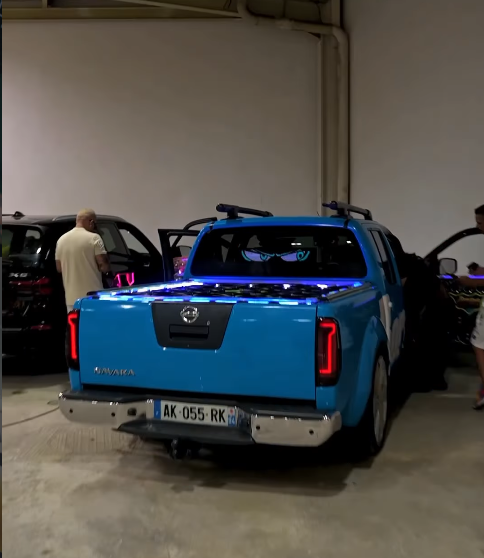
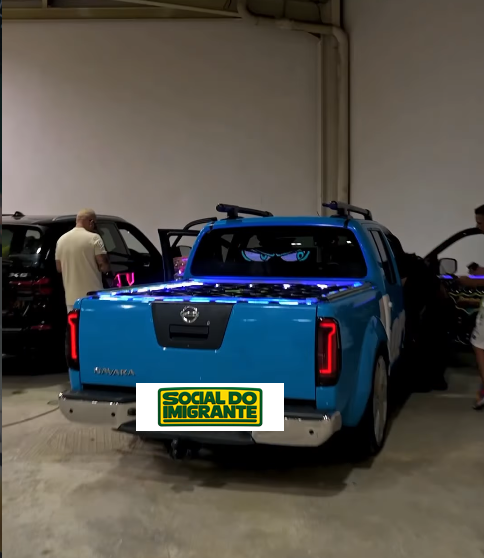
Atualiza expositores, tapa placa do carro e adiciona Suzana Medeiros
- Remove Andre Fernandes (alvesfernandesavocats) dos expositores
- Adiciona 5 novos expositores: pompes_funebres_universel_, br.eventss,
  alust_fr, natytattooparis, yasmindecorationparis
- Tampa a placa do carro na foto de Som Automotivo com a logo do evento
- Adiciona Suzana Medeiros à Programação

Changed region(s): [[0.2789, 0.6703, 0.5888, 0.7921]]

diff --git a/index.html b/index.html
@@ -187,10 +187,6 @@
             <span class="exhibitor__avatar"><img src="assets/expositores/maisonrebuli.jpg" alt="Logo de @maisonrebuli" width="96" height="96" loading="lazy"></span>
             <span class="exhibitor__handle">@maisonrebuli</span>
           </a>
-          <a class="exhibitor" href="https://www.instagram.com/alvesfernandesavocats/" target="_blank" rel="noopener noreferrer">
-            <span class="exhibitor__avatar"><img src="assets/expositores/alvesfernandesavocats.jpg" alt="Logo de @alvesfernandesavocats" width="96" height="96" loading="lazy"></span>
-            <span class="exhibitor__handle">@alvesfernandesavocats</span>
-          </a>
           <a class="exhibitor" href="https://www.instagram.com/gabimorandoemparis/" target="_blank" rel="noopener noreferrer">
             <span class="exhibitor__avatar"><img src="assets/expositores/gabimorandoemparis.jpg" alt="Logo de @gabimorandoemparis" width="96" height="96" loading="lazy"></span>
             <span class="exhibitor__handle">@gabimorandoemparis</span>
@@ -247,6 +243,26 @@
             <span class="exhibitor__avatar"><img src="assets/expositores/tom.e.brasa.jpg" alt="Logo de @tom.e.brasa" width="96" height="96" loading="lazy"></span>
             <span class="exhibitor__handle">@tom.e.brasa</span>
           </a>
+          <a class="exhibitor" href="https://www.instagram.com/pompes_funebres_universel_/" target="_blank" rel="noopener noreferrer">
+            <span class="exhibitor__avatar"><img src="assets/expositores/pompes_funebres_universel_.jpg" alt="Logo de @pompes_funebres_universel_" width="96" height="96" loading="lazy"></span>
+            <span class="exhibitor__handle">@pompes_funebres_universel_</span>
+          </a>
+          <a class="exhibitor" href="https://www.instagram.com/br.eventss/" target="_blank" rel="noopener noreferrer">
+            <span class="exhibitor__avatar"><img src="assets/expositores/br.eventss.jpg" alt="Logo de @br.eventss" width="96" height="96" loading="lazy"></span>
+            <span class="exhibitor__handle">@br.eventss</span>
+          </a>
+          <a class="exhibitor" href="https://www.instagram.com/alust_fr/" target="_blank" rel="noopener noreferrer">
+            <span class="exhibitor__avatar"><img src="assets/expositores/alust_fr.jpg" alt="Logo de @alust_fr" width="96" height="96" loading="lazy"></span>
+            <span class="exhibitor__handle">@alust_fr</span>
+          </a>
+          <a class="exhibitor" href="https://www.instagram.com/natytattooparis/" target="_blank" rel="noopener noreferrer">
+            <span class="exhibitor__avatar"><img src="assets/expositores/natytattooparis.jpg" alt="Logo de @natytattooparis" width="96" height="96" loading="lazy"></span>
+            <span class="exhibitor__handle">@natytattooparis</span>
+          </a>
+          <a class="exhibitor" href="https://www.instagram.com/yasmindecorationparis/" target="_blank" rel="noopener noreferrer">
+            <span class="exhibitor__avatar"><img src="assets/expositores/yasmindecorationparis.jpeg" alt="Logo de @yasmindecorationparis" width="96" height="96" loading="lazy"></span>
+            <span class="exhibitor__handle">@yasmindecorationparis</span>
+          </a>
         </div>
         <div class="exhibitor-marquee__set" aria-hidden="true">
           <a class="exhibitor" href="https://www.instagram.com/vikyoko_sushi/" target="_blank" rel="noopener noreferrer" tabindex="-1">
@@ -268,10 +284,6 @@
           <a class="exhibitor" href="https://www.instagram.com/maisonrebuli/" target="_blank" rel="noopener noreferrer" tabindex="-1">
             <span class="exhibitor__avatar"><img src="assets/expositores/maisonrebuli.jpg" alt="" width="96" height="96" loading="lazy"></span>
             <span class="exhibitor__handle">@maisonrebuli</span>
-          </a>
-          <a class="exhibitor" href="https://www.instagram.com/alvesfernandesavocats/" target="_blank" rel="noopener noreferrer" tabindex="-1">
-            <span class="exhibitor__avatar"><img src="assets/expositores/alvesfernandesavocats.jpg" alt="" width="96" height="96" loading="lazy"></span>
-            <span class="exhibitor__handle">@alvesfernandesavocats</span>
           </a>
           <a class="exhibitor" href="https://www.instagram.com/gabimorandoemparis/" target="_blank" rel="noopener noreferrer" tabindex="-1">
             <span class="exhibitor__avatar"><img src="assets/expositores/gabimorandoemparis.jpg" alt="" width="96" height="96" loading="lazy"></span>
@@ -328,6 +340,26 @@
           <a class="exhibitor" href="https://www.instagram.com/tom.e.brasa/" target="_blank" rel="noopener noreferrer" tabindex="-1">
             <span class="exhibitor__avatar"><img src="assets/expositores/tom.e.brasa.jpg" alt="" width="96" height="96" loading="lazy"></span>
             <span class="exhibitor__handle">@tom.e.brasa</span>
+          </a>
+          <a class="exhibitor" href="https://www.instagram.com/pompes_funebres_universel_/" target="_blank" rel="noopener noreferrer" tabindex="-1">
+            <span class="exhibitor__avatar"><img src="assets/expositores/pompes_funebres_universel_.jpg" alt="" width="96" height="96" loading="lazy"></span>
+            <span class="exhibitor__handle">@pompes_funebres_universel_</span>
+          </a>
+          <a class="exhibitor" href="https://www.instagram.com/br.eventss/" target="_blank" rel="noopener noreferrer" tabindex="-1">
+            <span class="exhibitor__avatar"><img src="assets/expositores/br.eventss.jpg" alt="" width="96" height="96" loading="lazy"></span>
+            <span class="exhibitor__handle">@br.eventss</span>
+          </a>
+          <a class="exhibitor" href="https://www.instagram.com/alust_fr/" target="_blank" rel="noopener noreferrer" tabindex="-1">
+            <span class="exhibitor__avatar"><img src="assets/expositores/alust_fr.jpg" alt="" width="96" height="96" loading="lazy"></span>
+            <span class="exhibitor__handle">@alust_fr</span>
+          </a>
+          <a class="exhibitor" href="https://www.instagram.com/natytattooparis/" target="_blank" rel="noopener noreferrer" tabindex="-1">
+            <span class="exhibitor__avatar"><img src="assets/expositores/natytattooparis.jpg" alt="" width="96" height="96" loading="lazy"></span>
+            <span class="exhibitor__handle">@natytattooparis</span>
+          </a>
+          <a class="exhibitor" href="https://www.instagram.com/yasmindecorationparis/" target="_blank" rel="noopener noreferrer" tabindex="-1">
+            <span class="exhibitor__avatar"><img src="assets/expositores/yasmindecorationparis.jpeg" alt="" width="96" height="96" loading="lazy"></span>
+            <span class="exhibitor__handle">@yasmindecorationparis</span>
           </a>
         </div>
       </div>
@@ -457,6 +489,10 @@
       <article class="lineup-item">
         <div class="lineup-item__avatar"><img src="assets/logos/atividade-na-laje.png" alt="Atividade na Laje" loading="lazy"></div>
         <h3 class="display">Atividade na Laje</h3>
+      </article>
+      <article class="lineup-item">
+        <div class="lineup-item__avatar"><img src="assets/logos/suzana-medeiros.jpg" alt="Suzana Medeiros" loading="lazy"></div>
+        <h3 class="display">Suzana Medeiros</h3>
       </article>
     </div>
   </section>
